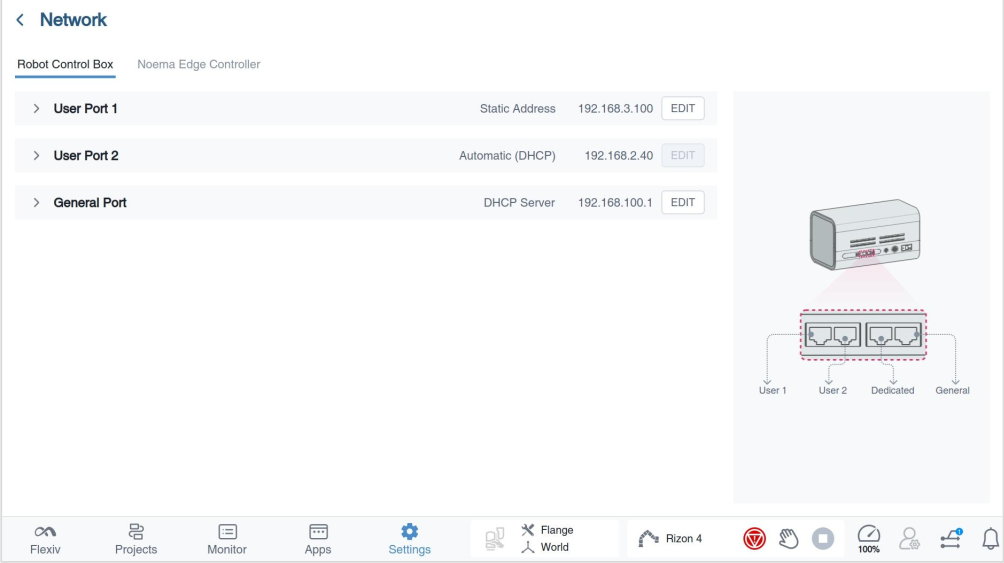
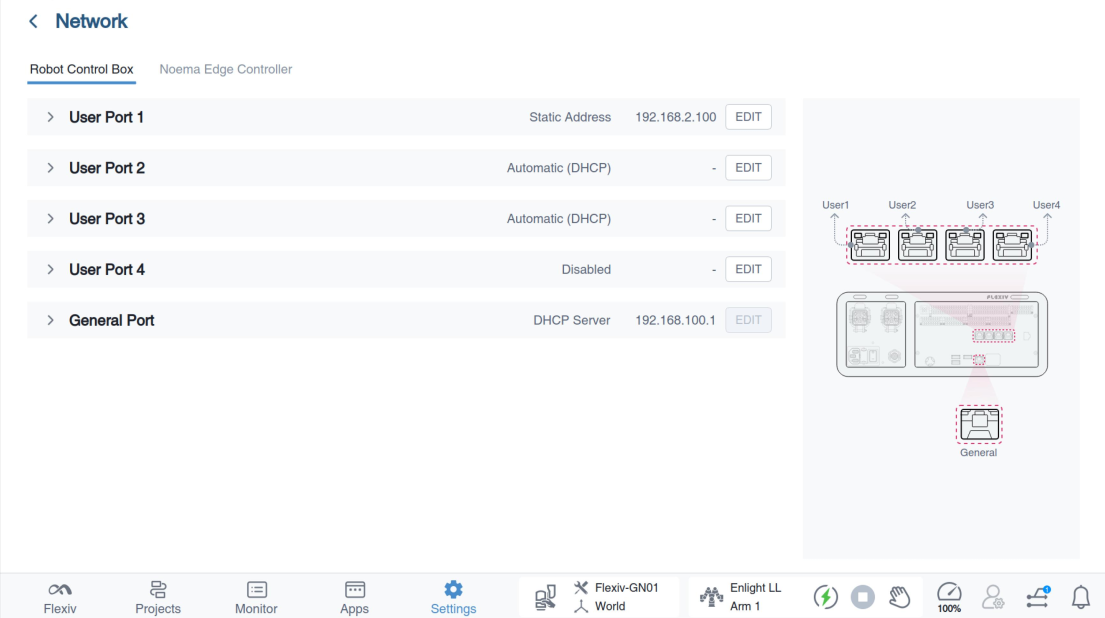
update docs

diff --git a/docs/user-manual/system-setup.md b/docs/user-manual/system-setup.md
@@ -1,9 +1,10 @@
 # Robots setup and network configuration
-Before using TDK, ensure that the robots are properly mounted and the network is correctly configured. TDK supports both local area network (LAN) and wide area network (WAN) deployments. The following section uses a LAN setup as an example to describe the network configuration for the robots and the user computer.
 
+!!! warning "Caution"
 
-## ⚠ Important
-Please make sure all robots are well mounted on a fixed base and are powered on before proceeding to the next step.
+    Before proceeding, make sure the robot is securely mounted onto a steady base and won’t topple over when moving at a high speed with sudden stops.
+
+TDK supports both local area network (LAN) and wide area network (WAN) deployments. The following section uses a LAN setup as an example to describe the network configuration for the robots and the user computer.
 
 ## Step 1: Power on and servo on the robots
 Follow instructions in the provided Quick Start Guide to complete hardware setup and boot up the two robots. After booting up, connect the robots to the UI tablet (Flexiv Elements). All the light rings on the robots should be deep blue if they are powered on and servo on.
@@ -21,13 +22,15 @@ License.
 
 ## Step 3: Configure the network for leader robot and follower robot
 
-The network configuration for the leader robot and follower robot can be done via the ``Flexiv Elements->Settings->Network``.
+The network configuration for the leader robot and follower robot can be done via the ``Flexiv Elements->Settings->Robot Control Box``.
 Please refer to Flexiv Elements User Manual for more details.
 ![control_box_net_cfg](../assets/control_box_network.png)
 
-For LAN teleoperation, please set both robots and the user's computer to the same network segment with different IP Addresses (e.g., leader robot: 192.168.2.110, follower robot: 192.168.2.111 and user PC:192.168.2.112. All configured with a subnet mask of 255.255.255.0).
+For LAN teleoperation, please set leader and follower robots and the user's computer to the same network segment with different IP Addresses (e.g., leader robot: 192.168.2.110, follower robot: 192.168.2.111 and user PC:192.168.2.112. All configured with a subnet mask of 255.255.255.0).
 
 ## Step 4: Reboot the robots and ping test
 After configuring the network and remote mode, reboot the robots. Connect the user's computer and two robots to the same ethernet switch. Ping the two control boxes to make sure all the devices are connected properly.
 
+## Step 5: Tool calibration
+Following `Calibrate Tool` chapter in Flexiv Elements User Manual, make sure inertia parameters of the tools on both robots are calibrated and the configured tools are indeed the current ones. Set the TCP Position of the leader robot at the position where the human hand actually grips.
 

diff --git a/docs/index.md b/docs/index.md
@@ -1,13 +1,12 @@
 # Flexiv TDK Documentation
 
-Welcome to the **Flexiv TDK (Teleoperation Development Kit)** documentation site. This site provides a user manual, API reference, and Q&A to help you integrate and operate Flexiv's teleoperation SDK.
+Welcome to the **Flexiv TDK (Teleoperation Development Kit)** documentation site. This site provides a user manual, API reference, and Q&A to help you setup and integrate TDK.
 
 ## What is Flexiv TDK?
-Flexiv TDK is an SDK for building custom robot-to-robot or device-to-robot teleoperation applications with Flexiv's adaptive robots. It enables synchronized, force-guided motion using **high-fidelity perceptual feedback** and supports both **LAN** (Local Area Network) and **WAN** (Internet) connections.
 
-## Contact-Rich Manipulation Benchmarks
-Flexiv TDK has been recognized on the [Manipulation Net Peg-in-Hole Leaderboard](https://manipulation-net.org/leaderboards/peg_in_hole.html). The [Manipulation Net](https://manipulation-net.org) is a public benchmark for robotic manipulation in the real world at scale with any robot at any time and anywhere. This provides external evidence for the contact-rich manipulation capability relevant to TDK use cases, including compliant insertion, alignment, and force-sensitive teleoperation workflows.
+Flexiv TDK is an SDK for building custom robot-to-robot or device-to-robot teleoperation applications with Flexiv's adaptive robots. It enables synchronized, force-guided motion using **high-fidelity perceptual feedback** and supports both **LAN** (Local Area Network) and **WAN** (Internet) connections. 
 
+TDK boasts a wide range of application scenarios in fields including Embodied AI Data Acquisition, radiation medicine, and hazardous chemical experiments.
 
 🎬 **[Flexiv's TDK | Teleoperation Made Simple](https://www.youtube.com/watch?v=H0e9FSZIa14)**  
 *(Click image below to play)*  
@@ -19,6 +18,9 @@ Flexiv TDK has been recognized on the [Manipulation Net Peg-in-Hole Leaderboard]
     <img src="https://img.youtube.com/vi/udkddqxth5Q/hqdefault.jpg" alt="TDK Demo 2" width="350" />
   </a>
 </p>
+
+## Contact-Rich Manipulation Benchmarks
+Flexiv TDK has been recognized on the [Manipulation Net Peg-in-Hole Leaderboard](https://manipulation-net.org/leaderboards/peg_in_hole.html). The [Manipulation Net](https://manipulation-net.org) is a public benchmark for robotic manipulation in the real world at scale with any robot at any time and anywhere. This provides external evidence for the contact-rich manipulation capability relevant to TDK use cases, including compliant insertion, alignment, and force-sensitive teleoperation workflows.
 
 ## Key Features
 - **High Fidelity Perceptual Feedback**: 100% tactile feedback transparency ensures the fidelity of human operation.

diff --git a/docs/user-manual/overview.md b/docs/user-manual/overview.md
@@ -1,33 +1,32 @@
 # User Manual Overview
 
+!!! warning "Important"
+
+    Before using the robot with Flexiv TDK, you must carefully read through all documents shipped with the robot as well as this manual, and strictly follow all safety instructions detailed in these documents.
+
 This manual guides you through installing, configuring, and using the Flexiv TDK (Teleoperation Development Kit) to build teleoperation applications over LAN or WAN.
 
 ## Audience
 - Application developers integrating teleoperation features
 - Robotics engineers deploying Flexiv systems
-- Researchers building custom haptic or robot-to-robot workflows
+- Researchers building custom robot-to-robot tele-operation workflows
 
 ## Prerequisites
 
 ### Robot
-- At least two Flexiv Rizon robots with FT sensors configured
+- At least two Enlight series robots
 ### Network Devices
 - Network devices (e.g., Ethernet switch/router) with sufficient bandwidth and latency
 - CAT 6 or CAT 7 Ethernet cables
 ### User PC
 - Ubuntu 22.04+ (x86_64 or aarch64)
 - C++ toolchain: GCC ≥ 9.4, CMake ≥ 3.16.3
-- Python 3.8/3.10/3.12 (for Python SDK usage)
-- Network access to the robot and (for WAN) reliable time synchronization
-
-## Repository Layout
-- `include/`: C++ headers
-- `example/`: C++ example apps
-- `example_py/`: Python example apps
-- `docs/doxygen/`: Doxygen configuration and assets
+- Python 3.10/3.12/3.14
+- Network access to the robot and Internet (for WAN)
 
 ## Where to Start
+- First to finish the [System Setup](./system-setup.md)
 - New to the SDK? Start with [Quick Start (Python)](quick-start-python.md) or [Quick Start (C++)](quick-start-cpp.md).
 - Need hard real-time performance? See [Real-Time Kernel](real-time-kernel.md).
 - Deploying over WAN? See [Time Sync (WAN)](time-sync.md).
-- Looking for sample usage? See [Examples](examples.md).
+- Looking for API doc? See [API doc](../api/index.md).

diff --git a/docs/user-manual/quick-start-python.md b/docs/user-manual/quick-start-python.md
@@ -1,6 +1,6 @@
 # Quick Start (Python)
 
-This guide walks you through installing and running the Flexiv TDK Python package.
+This guide walks you through installing and running the Flexiv TDK Python package. The packages were published on [PyPI](https://pypi.org/project/flexivtdk/)
 
 ## 1) Install the package
 
@@ -20,12 +20,26 @@ python3.x
 
 ## 3) Run Python examples from this repo
 
+To allow a regular user to create high-priority (real-time) threads without `sudo`, configure system to apply real-time and nice priority limits (only need to set it once):
+
+```bash
+echo "${USER}    -   rtprio    99" | sudo tee -a /etc/security/limits.conf
+echo "${USER}    -   nice     -20" | sudo tee -a /etc/security/limits.conf
+echo "${USER} soft memlock unlimited" | sudo tee -a /etc/security/limits.conf
+echo "${USER} hard memlock unlimited" | sudo tee -a /etc/security/limits.conf
+```
+Log out and log back in (or reboot) for the settings to take effect. Then all the examples can be executed without `sudo`.
+
 ```bash
 cd flexiv_tdk/example_py
 python3.x <example_name>.py [arguments]
 ```
-
 Check each example’s source code for usage details.
+
+!!! warning "Important"
+
+    Note that the human-robot interaction is read from the TCP wrench. Therefore, do not grab the end effector of the robot with one hand and another link of the robot with the other hand, which is a common operational mistake.
+
 
 ## Common Tips
 - Ensure the robot network connection is stable.

diff --git a/docs/user-manual/quick-start-cpp.md b/docs/user-manual/quick-start-cpp.md
@@ -47,9 +47,18 @@ cmake --build . --config Release -j 4
 
 ```bash
 cd flexiv_tdk/example/build
-LD_LIBRARY_PATH=~/tdk_install/lib ./<program_name> [arguments]
+sudo ./<program_name> [arguments]
 ```
 
-> `LD_LIBRARY_PATH` specifies where shared libraries for dependencies are installed.
+To allow a regular user to create high-priority (real-time) threads without `sudo`, configure system to apply real-time and nice priority limits (only need to set it once):
 
-See [Examples](examples.md) for details on the example programs.
+```bash
+echo "${USER}    -   rtprio    99" | sudo tee -a /etc/security/limits.conf
+echo "${USER}    -   nice     -20" | sudo tee -a /etc/security/limits.conf
+echo "${USER} soft memlock unlimited" | sudo tee -a /etc/security/limits.conf
+echo "${USER} hard memlock unlimited" | sudo tee -a /etc/security/limits.conf
+```
+Log out and log back in (or reboot) for the settings to take effect. Then all the examples can be executed without `sudo`.
+
+See [API Reference](../api/doxygen/index.html) for details.
+

diff --git a/docs/user-manual/troubleshooting.md b/docs/user-manual/troubleshooting.md
@@ -12,5 +12,10 @@
 - **High latency / unstable motion**: Verify network stability and re-check time synchronization.
 - **Time sync inaccurate**: Use `chronyc tracking` and consider re-running `chronyc burst` and `chronyc makestep`.
 
+## Leader robot drifting
+- Check the inertial parameter calibration of the leader robot tool and confirm that the configured tool is indeed the current one.
+- Check that the TCP position of the leader robot is set at the actual position where the human hand grips it
+- When starting TDK examples, whether to calibrate the sensor is determined based on the actual input parameters. If choose to calibrate the sensor on initialization, the calibration will last for a period of time, so do not touch the device during that process.
+
 ## Getting Help
 - [GitHub Issues](https://github.com/flexivrobotics/flexiv_tdk/issues)

diff --git a/docs/qa/index.md b/docs/qa/index.md
@@ -12,8 +12,5 @@
 ## Q: Where is the API reference?
 **A:** The Doxygen API reference is published under `api/doxygen/index.html` on GitHub Pages. See [API Reference](../api/doxygen/index.html).
 
-## Q: What if my app cannot find shared libraries?
-**A:** Set `LD_LIBRARY_PATH=~/tdk_install/lib` before running binaries.
-
 ## Q: Where can I get help?
-**A:** Open an issue on GitHub or contact Flexiv via https://www.flexiv.com/contact.
+**A:** Contact your sales manager and open an issue on GitHub or contact Flexiv via https://www.flexiv.com/contact.
